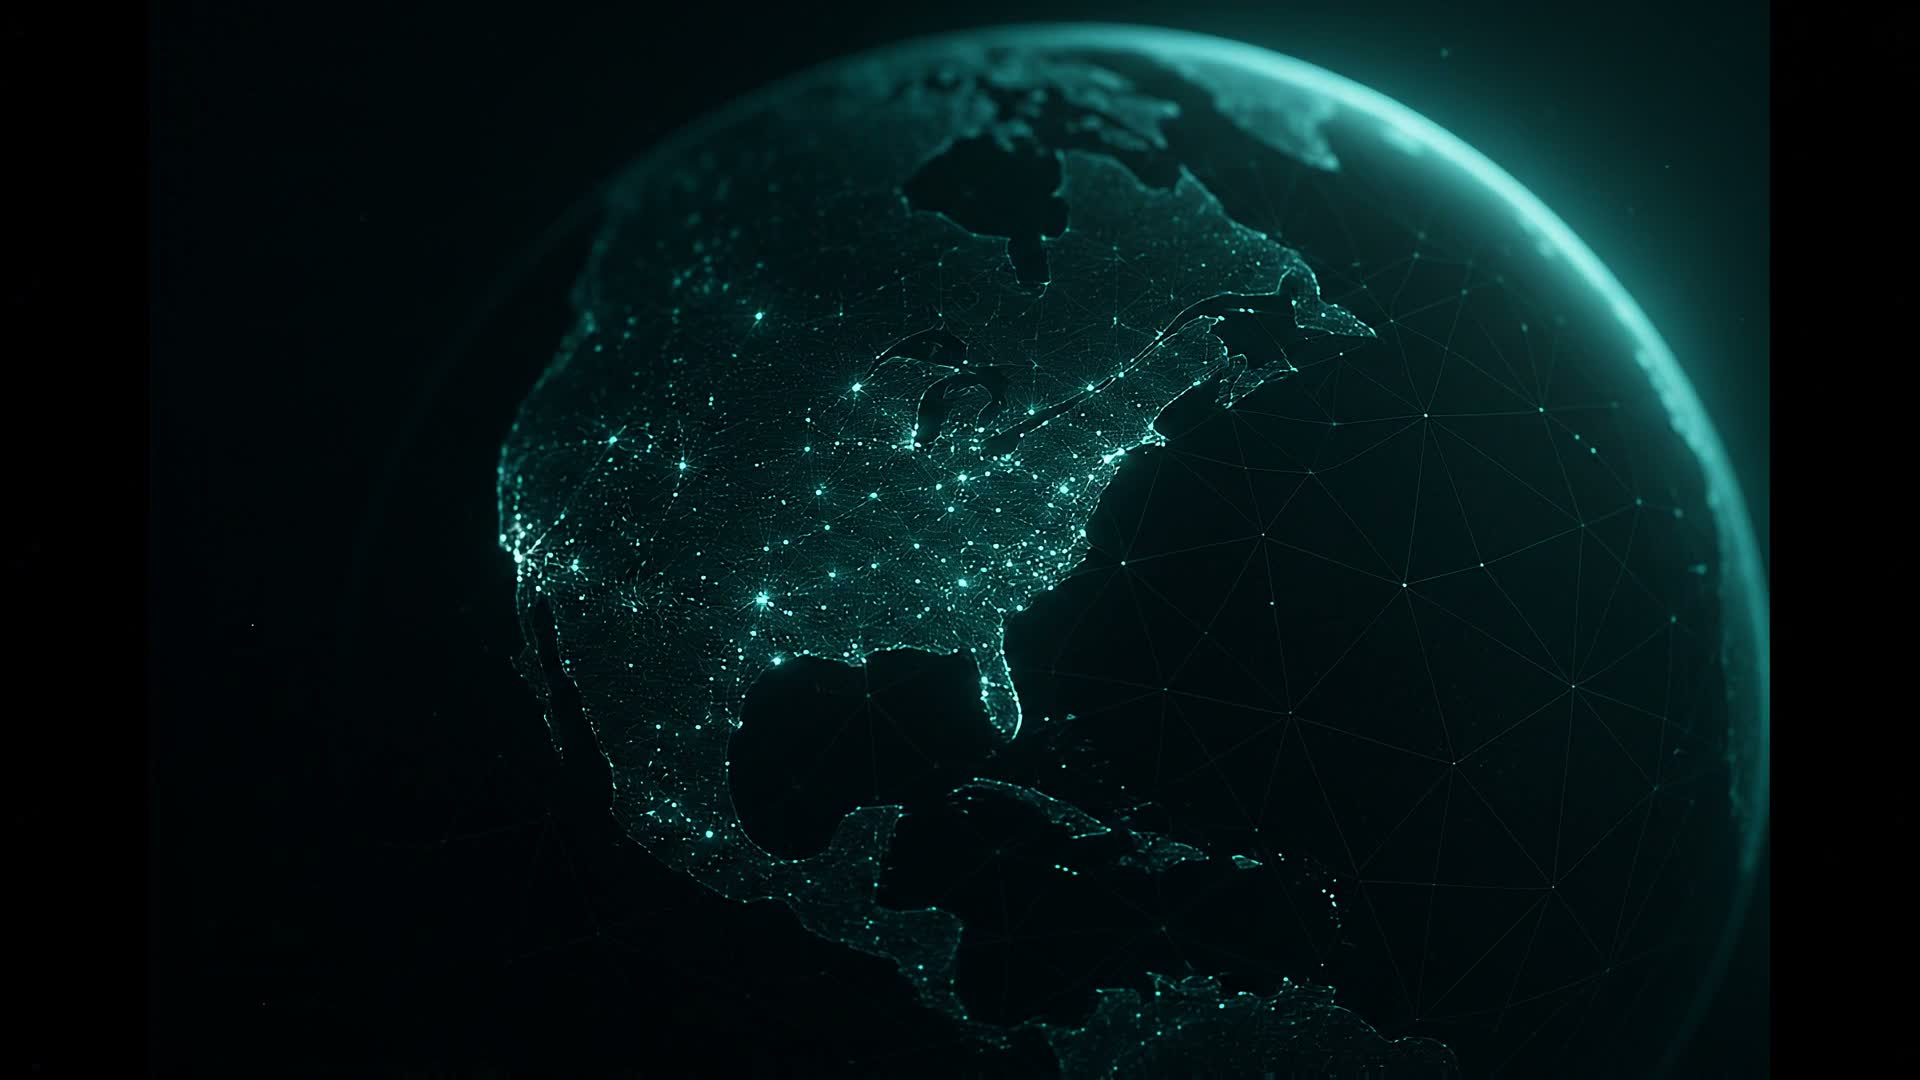
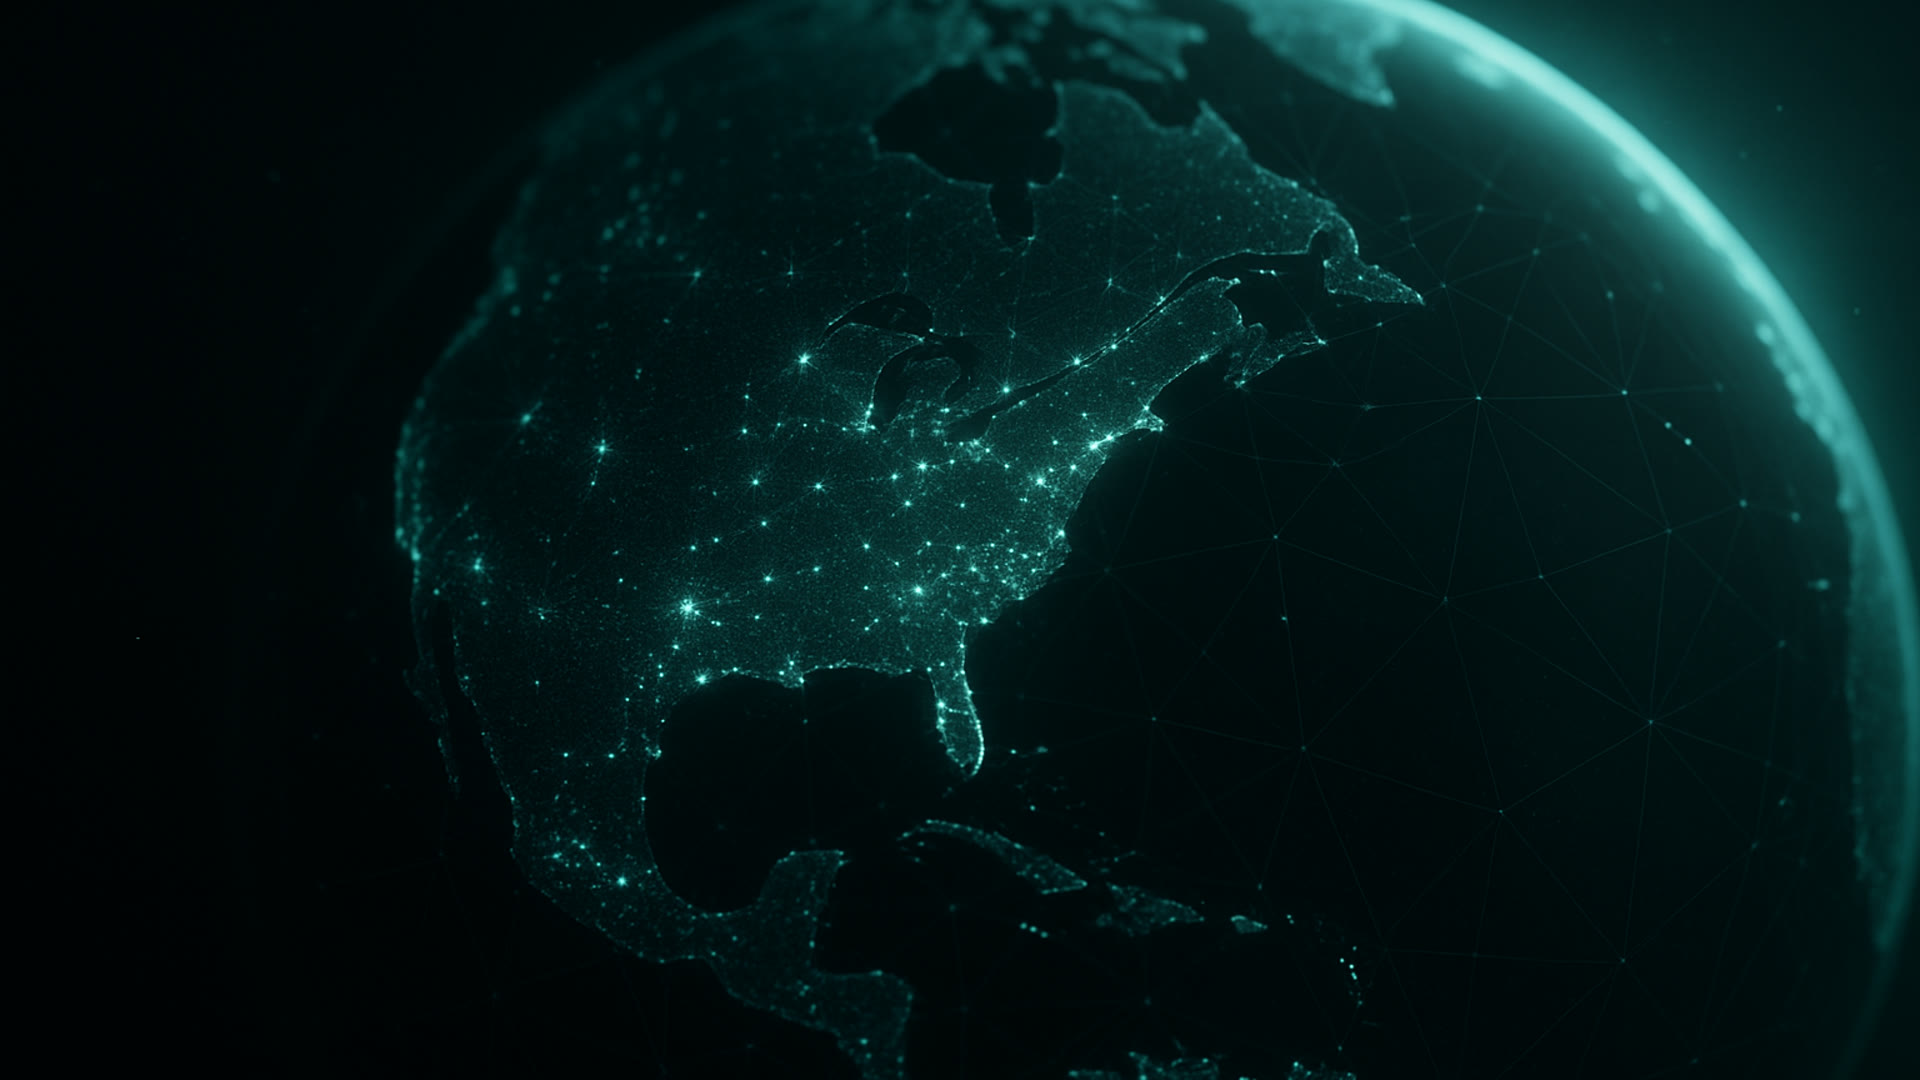
Film pages: vertically center player + frame-01 posters
- main is now flex/centered with min-height: calc(100vh - 220px) so the
  super-wide 3:1 player sits in the middle of the visible viewport instead
  of pinning to the top with empty black space below
- Width bumped 1400px -> 1600px for the wider aspect
- Posters now use frame-01 from each storyboard (clean Bttr-on-globe)
- SB2/SB3 metadata updated 1920x1080 -> 4608x1536; SB1 stays 1920x1080

diff --git a/film-2/index.html b/film-2/index.html
@@ -36,8 +36,8 @@
   header .meta span + span::before { content: "·"; margin: 0 10px; color: var(--line); }
   .badge { display:inline-block; padding:4px 10px; border:1px solid var(--accent); color:var(--accent); border-radius:999px; font-size:10px; letter-spacing:0.18em; text-transform:uppercase; margin-left:10px; }
 
-  main { padding: 48px 48px 96px; max-width: 1400px; margin: 0 auto; }
-  .player-wrap { background:#000; border:1px solid var(--line); border-radius:6px; overflow:hidden; box-shadow: 0 24px 80px rgba(0,0,0,0.6); }
+  main { padding: 48px 48px 96px; max-width: 1600px; margin: 0 auto; min-height: calc(100vh - 220px); display: flex; align-items: center; justify-content: center; }
+  .player-wrap { width: 100%; background:#000; border:1px solid var(--line); border-radius:6px; overflow:hidden; box-shadow: 0 24px 80px rgba(0,0,0,0.6); }
   video { display:block; width:100%; height:auto; background:#000; }
   .player-meta { margin-top:24px; display:grid; grid-template-columns:repeat(auto-fit,minmax(200px,1fr)); gap:18px; padding:24px; border:1px solid var(--line); background:var(--card); border-radius:6px; }
   .player-meta dt { font-size:10px; letter-spacing:0.22em; text-transform:uppercase; color:var(--fg-dim); margin-bottom:6px; }
@@ -74,7 +74,7 @@
     <h1>Film 2 · SB2 <span class="badge">WIP</span></h1>
     <div class="meta">
       <span>1:03 runtime</span>
-      <span>1920 × 1080</span>
+      <span>4608 × 1536</span>
       <span>From Storyboard 2</span>
     </div>
   </div>

diff --git a/film-3/index.html b/film-3/index.html
@@ -36,8 +36,8 @@
   header .meta span + span::before { content: "·"; margin: 0 10px; color: var(--line); }
   .badge { display:inline-block; padding:4px 10px; border:1px solid var(--accent); color:var(--accent); border-radius:999px; font-size:10px; letter-spacing:0.18em; text-transform:uppercase; margin-left:10px; }
 
-  main { padding: 48px 48px 96px; max-width: 1400px; margin: 0 auto; }
-  .player-wrap { background:#000; border:1px solid var(--line); border-radius:6px; overflow:hidden; box-shadow: 0 24px 80px rgba(0,0,0,0.6); }
+  main { padding: 48px 48px 96px; max-width: 1600px; margin: 0 auto; min-height: calc(100vh - 220px); display: flex; align-items: center; justify-content: center; }
+  .player-wrap { width: 100%; background:#000; border:1px solid var(--line); border-radius:6px; overflow:hidden; box-shadow: 0 24px 80px rgba(0,0,0,0.6); }
   video { display:block; width:100%; height:auto; background:#000; }
   .player-meta { margin-top:24px; display:grid; grid-template-columns:repeat(auto-fit,minmax(200px,1fr)); gap:18px; padding:24px; border:1px solid var(--line); background:var(--card); border-radius:6px; }
   .player-meta dt { font-size:10px; letter-spacing:0.22em; text-transform:uppercase; color:var(--fg-dim); margin-bottom:6px; }
@@ -74,7 +74,7 @@
     <h1>Film 3 · SB3 <span class="badge">WIP</span></h1>
     <div class="meta">
       <span>1:03 runtime</span>
-      <span>1920 × 1080</span>
+      <span>4608 × 1536</span>
       <span>From Storyboard 3</span>
     </div>
   </div>

diff --git a/film-1/index.html b/film-1/index.html
@@ -36,8 +36,8 @@
   header .meta span + span::before { content: "·"; margin: 0 10px; color: var(--line); }
   .badge { display:inline-block; padding:4px 10px; border:1px solid var(--accent); color:var(--accent); border-radius:999px; font-size:10px; letter-spacing:0.18em; text-transform:uppercase; margin-left:10px; }
 
-  main { padding: 48px 48px 96px; max-width: 1400px; margin: 0 auto; }
-  .player-wrap { background:#000; border:1px solid var(--line); border-radius:6px; overflow:hidden; box-shadow: 0 24px 80px rgba(0,0,0,0.6); }
+  main { padding: 48px 48px 96px; max-width: 1600px; margin: 0 auto; min-height: calc(100vh - 220px); display: flex; align-items: center; justify-content: center; }
+  .player-wrap { width: 100%; background:#000; border:1px solid var(--line); border-radius:6px; overflow:hidden; box-shadow: 0 24px 80px rgba(0,0,0,0.6); }
   video { display:block; width:100%; height:auto; background:#000; }
   .player-meta { margin-top:24px; display:grid; grid-template-columns:repeat(auto-fit,minmax(200px,1fr)); gap:18px; padding:24px; border:1px solid var(--line); background:var(--card); border-radius:6px; }
   .player-meta dt { font-size:10px; letter-spacing:0.22em; text-transform:uppercase; color:var(--fg-dim); margin-bottom:6px; }
